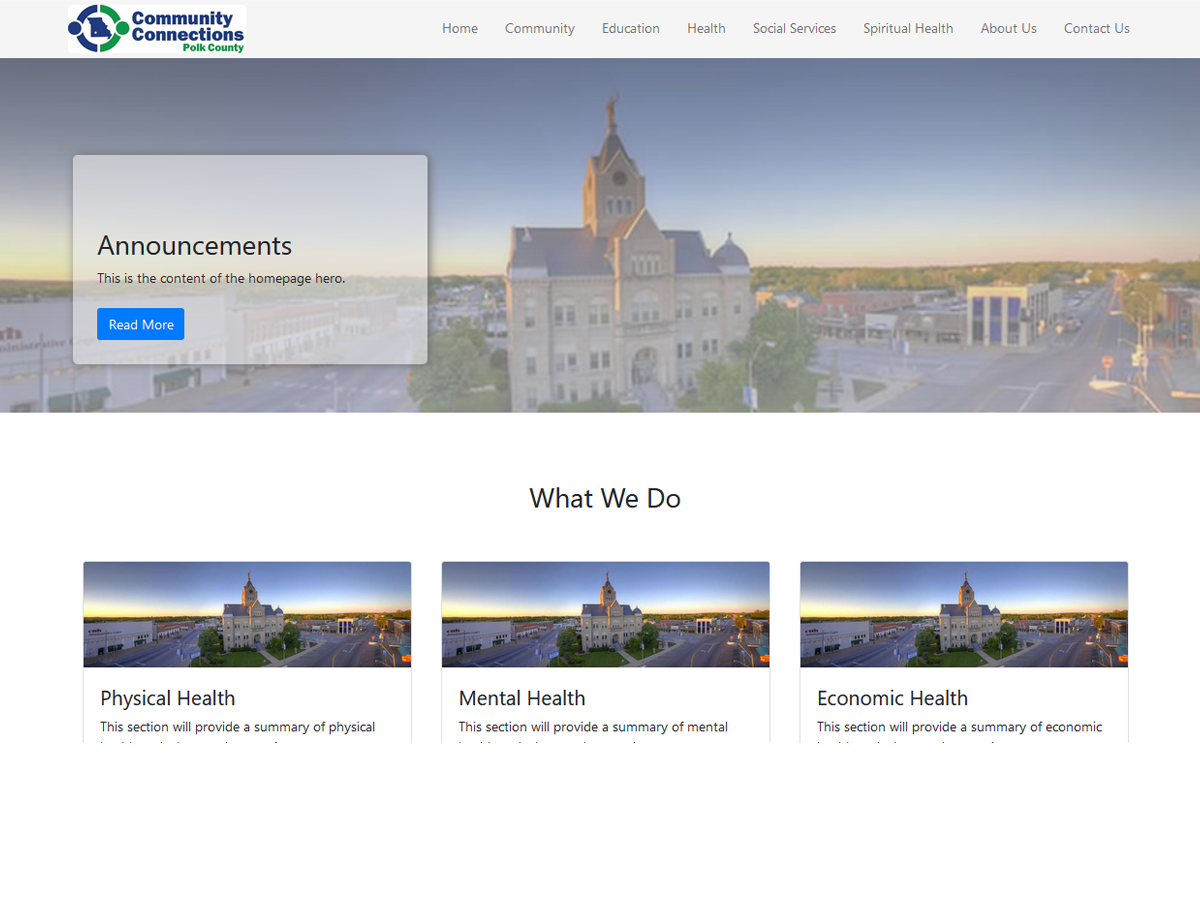
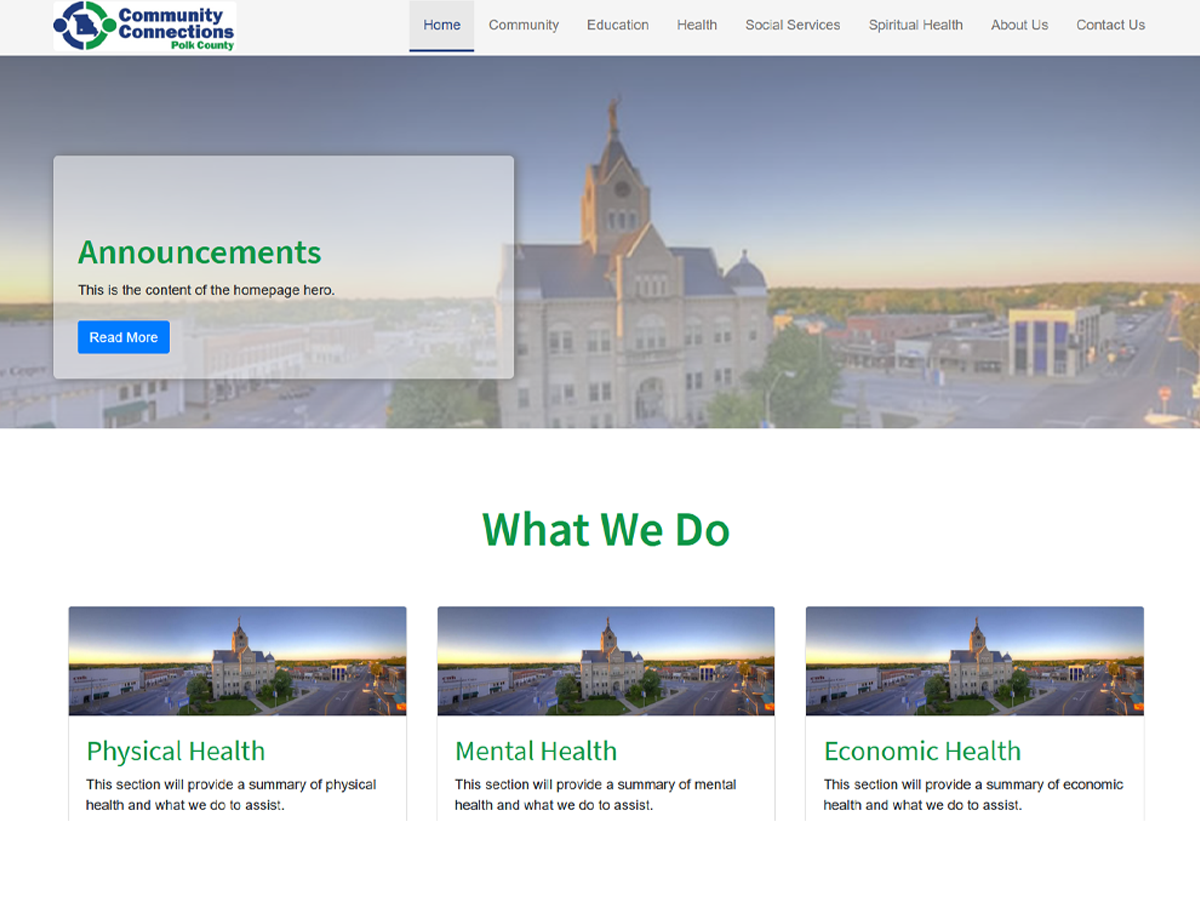
Hero Area & Screenshot.png
Added a container to the hero area to improve design with wider screens, switched screenshot.png image

diff --git a/themes/vrctheme/front-page.php b/themes/vrctheme/front-page.php
@@ -7,11 +7,13 @@
 ?>
 
 <div class="jumbotron-fluid" style="background:  linear-gradient(rgba(112, 112, 112, 0.45), rgba(245, 245, 245, 0.5)), url(<?php the_field('hero_image');?>); background-size:cover;">
-    <div class="row align-items-end">
-        <div class="col-lg-5 col-md-9 col-sm-12" id="announcements">
-        <h3><?php the_field('hero_heading');?></h3>
-        <p class="mt-2"><?php the_field('hero_content');?></p>
-        <a href="<?php the_field('hero_button');?>"><button type="button" class="btn btn-primary mt-2">Read More</button></a>
+    <div class="row align-items-start">
+        <div class="container">
+            <div class="col-lg-5 col-md-9 col-sm-12" id="announcements">
+                <h3><?php the_field('hero_heading');?></h3>
+                <p class="mt-2"><?php the_field('hero_content');?></p>
+                <a href="<?php the_field('hero_button');?>"><button type="button" class="btn btn-primary mt-2">Read More</button></a>
+            </div>
         </div>
     </div>
 </div>
